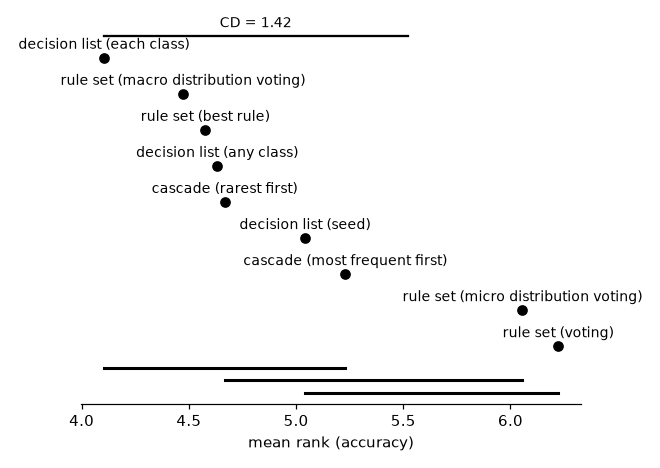
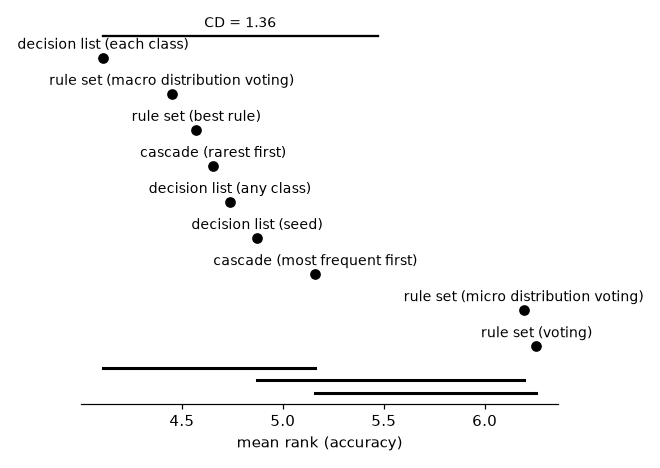
Rule models demo: re-run with kropt and letter
The two large datasets fitted (5-fold, 1800 s cap, no time-outs);
everything else from the cache.

diff --git a/demos/rule_models_report.md b/demos/rule_models_report.md
@@ -31,10 +31,10 @@ with the other as the default; the configurations there are a concept for
 the **minority** class and one for the **majority** class, the **rule set**
 of both classes with its four combiners, and the three **decision lists** of rules of either class.
 
-Multi-class datasets, with their numbers of classes: `balance-scale` (3), `cmc` (3), `dna` (3), `hayes-roth` (3), `iris` (3), `splice` (3), `wine` (3), `car` (4), `lymph` (4), `vehicle` (4), `anneal` (5), `glass` (6), `solar-flare` (6), `segment` (7), `zoo` (7), `ecoli` (8), `led24` (10), `yeast` (10), `optdigits` (10), `texture` (11), `vowel` (11), `soybean` (19), `primary-tumor` (21), `audiology` (24). Two-class datasets: `SPECT`, `Titanic`, `banknote-authentication`, `blood-transfusion-service-center`, `breast-cancer`, `breast-w`, `churn`, `climate-model-simulation-crashes`, `colic`, `compas-two-years`, `credit-approval`, `credit-g`, `cylinder-bands`, `diabetes`, `dresses-sales`, `heart-c`, `heart-h`, `heart-statlog`, `heloc`, `hepatitis`, `ilpd`, `ionosphere`, `kc1`, `kc2`, `kr-vs-kp`, `mofn-3-7-10`, `molecular-biology_promoters`, `monks-problems-1`, `monks-problems-2`, `monks-problems-3`, `mushroom`, `ozone-level-8hr`, `pc1`, `pc3`, `pc4`, `phoneme`, `qsar-biodeg`, `sick`, `sonar`, `spambase`, `tic-tac-toe`, `vote`, `wdbc`, `wilt`. Protocol:
-10-fold stratified cross-validation, one `DataSpec` per training fold
+Multi-class datasets, with their numbers of classes: `balance-scale` (3), `cmc` (3), `dna` (3), `hayes-roth` (3), `iris` (3), `splice` (3), `wine` (3), `car` (4), `lymph` (4), `vehicle` (4), `anneal` (5), `glass` (6), `solar-flare` (6), `segment` (7), `zoo` (7), `ecoli` (8), `led24` (10), `yeast` (10), `optdigits` (10), `texture` (11), `vowel` (11), `kropt` (18), `soybean` (19), `primary-tumor` (21), `audiology` (24), `letter` (26). Two-class datasets: `SPECT`, `Titanic`, `banknote-authentication`, `blood-transfusion-service-center`, `breast-cancer`, `breast-w`, `churn`, `climate-model-simulation-crashes`, `colic`, `compas-two-years`, `credit-approval`, `credit-g`, `cylinder-bands`, `diabetes`, `dresses-sales`, `heart-c`, `heart-h`, `heart-statlog`, `heloc`, `hepatitis`, `ilpd`, `ionosphere`, `kc1`, `kc2`, `kr-vs-kp`, `mofn-3-7-10`, `molecular-biology_promoters`, `monks-problems-1`, `monks-problems-2`, `monks-problems-3`, `mushroom`, `ozone-level-8hr`, `pc1`, `pc3`, `pc4`, `phoneme`, `qsar-biodeg`, `sick`, `sonar`, `spambase`, `tic-tac-toe`, `vote`, `wdbc`, `wilt`. Protocol:
+10-fold stratified cross-validation (5-fold for the large `kropt` and `letter`), one `DataSpec` per training fold
 (`TreeDiscretizer(max_intervals=8)`). Each fit is capped at
-300s; a time-out fails the whole cross-validation of that
+300s (1800s for the large ones); a time-out fails the whole cross-validation of that
 learner on that dataset. Training time is measured inside the worker process.
 
 ## Multi-class datasets
@@ -45,43 +45,43 @@ Sorted by mean rank (accuracy rank across datasets, failures last). Rules and co
 
 | model | accuracy | mean rank | rules | conditions | train (s) | failures |
 |---|--:|--:|--:|--:|--:|--:|
-| decision list (each class) | 80.61% | 2.58 | 34.6 | 136.6 | 3.47 | 0 |
-| decision list (seed) | 79.62% | 3.73 | 33.8 | 143.1 | 0.57 | 0 |
-| decision list (any class) | 78.75% | 4.48 | 29.5 | 115.2 | 1.11 | 0 |
-| rule set (macro distribution voting) | 76.19% | 5.00 | 43.3 | 202.7 | 0.51 | 0 |
-| rule set (best rule) | 76.23% | 5.19 | 43.3 | 202.7 | 0.51 | 0 |
-| cascade (rarest first) | 75.81% | 5.42 | 29.2 | 122.0 | 0.33 | 0 |
-| cascade (most frequent first) | 75.52% | 5.50 | 28.4 | 109.6 | 0.33 | 0 |
-| rule set (micro distribution voting) | 75.15% | 6.40 | 43.3 | 202.7 | 0.51 | 0 |
-| rule set (voting) | 75.15% | 6.71 | 43.3 | 202.7 | 0.51 | 0 |
+| decision list (each class) | 80.50% | 2.54 | 60.7 | 345.9 | 11.50 | 0 |
+| decision list (seed) | 79.14% | 3.75 | 50.1 | 293.1 | 1.04 | 0 |
+| decision list (any class) | 78.66% | 4.37 | 58.8 | 331.3 | 4.22 | 0 |
+| rule set (macro distribution voting) | 76.14% | 4.85 | 85.9 | 534.4 | 1.41 | 0 |
+| rule set (best rule) | 76.19% | 5.02 | 85.9 | 534.4 | 1.41 | 0 |
+| cascade (most frequent first) | 74.39% | 5.62 | 55.4 | 303.2 | 0.82 | 0 |
+| cascade (rarest first) | 73.98% | 5.65 | 53.4 | 277.3 | 0.78 | 0 |
+| rule set (micro distribution voting) | 73.67% | 6.56 | 85.9 | 534.4 | 1.41 | 0 |
+| rule set (voting) | 74.13% | 6.65 | 85.9 | 534.4 | 1.41 | 0 |
 
 ### PFossil
 
 | model | accuracy | mean rank | rules | conditions | train (s) | failures |
 |---|--:|--:|--:|--:|--:|--:|
-| rule set (best rule) | 81.37% | 3.88 | 32.6 | 140.5 | 0.09 | 0 |
-| rule set (macro distribution voting) | 81.21% | 3.90 | 32.6 | 140.5 | 0.09 | 0 |
-| decision list (any class) | 80.46% | 4.27 | 21.1 | 58.1 | 0.10 | 0 |
-| decision list (each class) | 80.17% | 4.67 | 21.0 | 78.8 | 0.22 | 0 |
-| cascade (rarest first) | 79.85% | 4.79 | 24.5 | 94.5 | 0.06 | 0 |
-| rule set (micro distribution voting) | 79.97% | 5.38 | 32.6 | 140.5 | 0.09 | 0 |
-| rule set (voting) | 80.08% | 5.52 | 32.6 | 140.5 | 0.09 | 0 |
-| cascade (most frequent first) | 77.87% | 5.73 | 25.0 | 87.6 | 0.06 | 0 |
-| decision list (seed) | 77.38% | 6.88 | 17.4 | 59.5 | 0.05 | 0 |
+| rule set (best rule) | 80.13% | 4.00 | 34.9 | 166.8 | 0.14 | 0 |
+| rule set (macro distribution voting) | 79.97% | 4.02 | 34.9 | 166.8 | 0.14 | 0 |
+| decision list (each class) | 79.32% | 4.42 | 27.3 | 120.5 | 0.60 | 0 |
+| decision list (any class) | 79.33% | 4.48 | 22.4 | 71.3 | 0.16 | 0 |
+| cascade (rarest first) | 78.91% | 4.65 | 28.1 | 122.6 | 0.10 | 0 |
+| cascade (most frequent first) | 77.02% | 5.52 | 28.6 | 114.5 | 0.09 | 0 |
+| rule set (micro distribution voting) | 78.71% | 5.58 | 34.9 | 166.8 | 0.14 | 0 |
+| rule set (voting) | 78.83% | 5.71 | 34.9 | 166.8 | 0.14 | 0 |
+| decision list (seed) | 76.54% | 6.62 | 22.7 | 100.7 | 0.13 | 0 |
 
 ### Pypper
 
 | model | accuracy | mean rank | rules | conditions | train (s) | failures |
 |---|--:|--:|--:|--:|--:|--:|
-| cascade (rarest first) | 79.80% | 3.79 | 13.9 | 46.9 | 0.17 | 0 |
-| cascade (most frequent first) | 78.43% | 4.46 | 14.9 | 45.4 | 0.17 | 0 |
-| rule set (macro distribution voting) | 78.38% | 4.52 | 18.8 | 71.3 | 0.27 | 0 |
-| decision list (seed) | 78.80% | 4.52 | 26.4 | 98.4 | 0.13 | 0 |
-| rule set (best rule) | 78.40% | 4.67 | 18.8 | 71.3 | 0.27 | 0 |
-| decision list (each class) | 78.18% | 5.06 | 14.0 | 39.4 | 0.31 | 0 |
-| decision list (any class) | 77.78% | 5.15 | 15.7 | 49.0 | 0.12 | 0 |
-| rule set (micro distribution voting) | 77.58% | 6.40 | 18.8 | 71.3 | 0.27 | 0 |
-| rule set (voting) | 77.50% | 6.44 | 18.8 | 71.3 | 0.27 | 0 |
+| cascade (rarest first) | 79.33% | 3.65 | 22.8 | 96.5 | 0.46 | 0 |
+| decision list (seed) | 78.48% | 4.25 | 52.2 | 377.3 | 0.77 | 0 |
+| cascade (most frequent first) | 77.87% | 4.35 | 23.5 | 102.4 | 0.43 | 0 |
+| rule set (macro distribution voting) | 77.46% | 4.48 | 25.8 | 124.3 | 0.62 | 0 |
+| rule set (best rule) | 77.47% | 4.69 | 25.8 | 124.3 | 0.62 | 0 |
+| decision list (any class) | 76.45% | 5.37 | 18.6 | 71.3 | 0.26 | 0 |
+| decision list (each class) | 76.71% | 5.37 | 15.1 | 47.7 | 0.74 | 0 |
+| rule set (voting) | 76.60% | 6.40 | 25.8 | 124.3 | 0.62 | 0 |
+| rule set (micro distribution voting) | 76.68% | 6.44 | 25.8 | 124.3 | 0.62 | 0 |
 
 ### All base learners together
 
@@ -89,17 +89,17 @@ Each kind of model's mean rank, averaged over the 3 base learners (ranked within
 
 | model | accuracy | mean rank |
 |---|--:|--:|
-| decision list (each class) | 79.65% | 4.10 |
-| rule set (macro distribution voting) | 78.59% | 4.47 |
-| rule set (best rule) | 78.67% | 4.58 |
-| decision list (any class) | 79.00% | 4.63 |
-| cascade (rarest first) | 78.49% | 4.67 |
-| decision list (seed) | 78.60% | 5.04 |
-| cascade (most frequent first) | 77.27% | 5.23 |
-| rule set (micro distribution voting) | 77.57% | 6.06 |
-| rule set (voting) | 77.57% | 6.22 |
+| decision list (each class) | 78.84% | 4.11 |
+| rule set (macro distribution voting) | 77.86% | 4.45 |
+| rule set (best rule) | 77.93% | 4.57 |
+| cascade (rarest first) | 77.41% | 4.65 |
+| decision list (any class) | 78.15% | 4.74 |
+| decision list (seed) | 78.05% | 4.87 |
+| cascade (most frequent first) | 76.43% | 5.16 |
+| rule set (micro distribution voting) | 76.35% | 6.19 |
+| rule set (voting) | 76.52% | 6.26 |
 
-Friedman test over the 72 (dataset, base learner) pairs: p = 2.5e-06 (9 kinds of model). Nemenyi critical difference at 5%: 1.42 -- two kinds whose mean ranks differ by less are not significantly different; the diagram joins them by a bar. The pairs of one dataset aren't independent of each other, so the test is on the optimistic side.
+Friedman test over the 78 (dataset, base learner) pairs: p = 1.2e-07 (9 kinds of model). Nemenyi critical difference at 5%: 1.36 -- two kinds whose mean ranks differ by less are not significantly different; the diagram joins them by a bar. The pairs of one dataset aren't independent of each other, so the test is on the optimistic side.
 
 ![critical-difference diagram, multiclass](rule_models_plots/rule_models_cd_multiclass.png)
 
@@ -168,6 +168,27 @@ Each kind of model's mean rank, averaged over the 3 base learners (ranked within
 Friedman test over the 132 (dataset, base learner) pairs: p = 6e-19 (9 kinds of model). Nemenyi critical difference at 5%: 1.05 -- two kinds whose mean ranks differ by less are not significantly different; the diagram joins them by a bar. The pairs of one dataset aren't independent of each other, so the test is on the optimistic side.
 
 ![critical-difference diagram, twoclass](rule_models_plots/rule_models_cd_twoclass.png)
+
+## Decision lists against rule sets, over the number of classes
+
+Per dataset and base learner, the accuracy of a decision list minus that of the rule set resolved by the best rule, in percentage points (positive: the decision list is better), and of the best decision list minus the best rule set, averaged over the datasets with the given numbers of classes and the three base learners.
+
+| classes | pairs | list (any class) | list (each class) | list (seed) | best list - best set |
+|---|--:|--:|--:|--:|--:|
+| 2 | 132 | -0.89 | -0.42 | -1.15 | +0.60 |
+| 3 | 21 | +0.21 | +1.01 | -1.28 | +1.71 |
+| 4-5 | 12 | +0.25 | +1.54 | +0.45 | +2.89 |
+| 6-9 | 15 | +1.46 | +1.04 | +0.07 | +2.12 |
+| 10-26 | 30 | -0.69 | +0.36 | +1.47 | +3.41 |
+
+Share of the pairs on which the decision list is better, and Spearman's rank correlation of the difference with the number of classes:
+
+| | ahead, two classes | ahead, more classes | correlation, all | correlation, more classes |
+|---|--:|--:|--:|--:|
+| decision list (any class) | 36% | 50% | +0.06 (p = 0.36) | -0.06 (p = 0.63) |
+| decision list (each class) | 39% | 54% | +0.15 (p = 0.027) | +0.01 (p = 0.9) |
+| decision list (seed) | 31% | 54% | +0.13 (p = 0.058) | +0.19 (p = 0.1) |
+| best decision list - best rule set | 51% | 73% | +0.26 (p = 0.00011) | +0.20 (p = 0.08) |
 
 ## Per dataset (mean across folds)
 
@@ -1118,6 +1139,33 @@ Friedman test over the 132 (dataset, base learner) pairs: p = 6e-19 (9 kinds of 
 | kr-vs-kp | Pypper:rule set (macro distribution voting) | 99.12% | 22.6 | 0.196 |
 | kr-vs-kp | Pypper:rule set (micro distribution voting) | 99.03% | 22.6 | 0.196 |
 | kr-vs-kp | Pypper:rule set (voting) | 98.91% | 22.6 | 0.196 |
+| kropt | CN2:cascade (most frequent first) | 41.19% | 1108.0 | 16.674 |
+| kropt | CN2:cascade (rarest first) | 32.26% | 942.2 | 14.432 |
+| kropt | CN2:decision list (any class) | 66.34% | 1107.8 | 88.686 |
+| kropt | CN2:decision list (each class) | 68.98% | 1009.0 | 154.575 |
+| kropt | CN2:decision list (seed) | 51.38% | 575.0 | 11.892 |
+| kropt | CN2:rule set (best rule) | 71.11% | 1798.0 | 32.539 |
+| kropt | CN2:rule set (macro distribution voting) | 70.00% | 1798.0 | 32.539 |
+| kropt | CN2:rule set (micro distribution voting) | 29.01% | 1798.0 | 32.539 |
+| kropt | CN2:rule set (voting) | 42.12% | 1798.0 | 32.539 |
+| kropt | PFossil:cascade (most frequent first) | 35.12% | 50.4 | 0.310 |
+| kropt | PFossil:cascade (rarest first) | 35.48% | 61.0 | 0.997 |
+| kropt | PFossil:decision list (any class) | 31.83% | 22.2 | 0.793 |
+| kropt | PFossil:decision list (each class) | 36.32% | 73.6 | 3.906 |
+| kropt | PFossil:decision list (seed) | 37.59% | 104.6 | 2.247 |
+| kropt | PFossil:rule set (best rule) | 24.99% | 44.8 | 0.860 |
+| kropt | PFossil:rule set (macro distribution voting) | 24.50% | 44.8 | 0.860 |
+| kropt | PFossil:rule set (micro distribution voting) | 22.78% | 44.8 | 0.860 |
+| kropt | PFossil:rule set (voting) | 22.69% | 44.8 | 0.860 |
+| kropt | Pypper:cascade (most frequent first) | 47.48% | 224.6 | 7.624 |
+| kropt | Pypper:cascade (rarest first) | 54.59% | 252.2 | 9.144 |
+| kropt | Pypper:decision list (any class) | 20.86% | 34.2 | 2.046 |
+| kropt | Pypper:decision list (each class) | 17.78% | 4.6 | 1.734 |
+| kropt | Pypper:decision list (seed) | 59.04% | 918.6 | 25.591 |
+| kropt | Pypper:rule set (best rule) | 33.63% | 135.6 | 7.872 |
+| kropt | Pypper:rule set (macro distribution voting) | 33.64% | 135.6 | 7.872 |
+| kropt | Pypper:rule set (micro distribution voting) | 33.48% | 135.6 | 7.872 |
+| kropt | Pypper:rule set (voting) | 33.49% | 135.6 | 7.872 |
 | led24 | CN2:cascade (most frequent first) | 54.31% | 118.7 | 0.749 |
 | led24 | CN2:cascade (rarest first) | 45.41% | 123.6 | 0.784 |
 | led24 | CN2:decision list (any class) | 65.91% | 95.4 | 1.929 |
@@ -1145,6 +1193,33 @@ Friedman test over the 132 (dataset, base learner) pairs: p = 6e-19 (9 kinds of 
 | led24 | Pypper:rule set (macro distribution voting) | 67.81% | 25.4 | 0.477 |
 | led24 | Pypper:rule set (micro distribution voting) | 67.88% | 25.4 | 0.477 |
 | led24 | Pypper:rule set (voting) | 67.47% | 25.4 | 0.477 |
+| letter | CN2:cascade (most frequent first) | 53.25% | 301.8 | 8.650 |
+| letter | CN2:cascade (rarest first) | 27.46% | 324.8 | 8.758 |
+| letter | CN2:decision list (any class) | 86.45% | 418.6 | 69.092 |
+| letter | CN2:decision list (each class) | 87.11% | 361.8 | 254.212 |
+| letter | CN2:decision list (seed) | 84.16% | 309.6 | 12.802 |
+| letter | CN2:rule set (best rule) | 79.13% | 421.2 | 13.318 |
+| letter | CN2:rule set (macro distribution voting) | 79.99% | 421.2 | 13.318 |
+| letter | CN2:rule set (micro distribution voting) | 47.30% | 421.2 | 13.318 |
+| letter | CN2:rule set (voting) | 57.17% | 421.2 | 13.318 |
+| letter | PFossil:cascade (most frequent first) | 78.21% | 176.6 | 1.401 |
+| letter | PFossil:cascade (rarest first) | 77.29% | 167.4 | 1.373 |
+| letter | PFossil:decision list (any class) | 72.54% | 85.8 | 2.587 |
+| letter | PFossil:decision list (each class) | 81.37% | 286.0 | 15.420 |
+| letter | PFossil:decision list (seed) | 75.07% | 195.6 | 1.898 |
+| letter | PFossil:rule set (best rule) | 75.67% | 137.4 | 1.903 |
+| letter | PFossil:rule set (macro distribution voting) | 75.80% | 137.4 | 1.903 |
+| letter | PFossil:rule set (micro distribution voting) | 73.98% | 137.4 | 1.903 |
+| letter | PFossil:rule set (voting) | 74.94% | 137.4 | 1.903 |
+| letter | Pypper:cascade (most frequent first) | 81.19% | 232.4 | 6.088 |
+| letter | Pypper:cascade (rarest first) | 81.39% | 220.8 | 5.807 |
+| letter | Pypper:decision list (any class) | 68.15% | 142.2 | 5.185 |
+| letter | Pypper:decision list (each class) | 64.89% | 79.2 | 20.326 |
+| letter | Pypper:decision list (seed) | 82.66% | 421.4 | 6.800 |
+| letter | Pypper:rule set (best rule) | 77.00% | 251.4 | 10.102 |
+| letter | Pypper:rule set (macro distribution voting) | 77.20% | 251.4 | 10.102 |
+| letter | Pypper:rule set (micro distribution voting) | 76.61% | 251.4 | 10.102 |
+| letter | Pypper:rule set (voting) | 76.68% | 251.4 | 10.102 |
 | lymph | CN2:cascade (most frequent first) | 81.86% | 6.0 | 0.017 |
 | lymph | CN2:cascade (rarest first) | 75.81% | 7.7 | 0.015 |
 | lymph | CN2:decision list (any class) | 82.62% | 5.2 | 0.029 |
